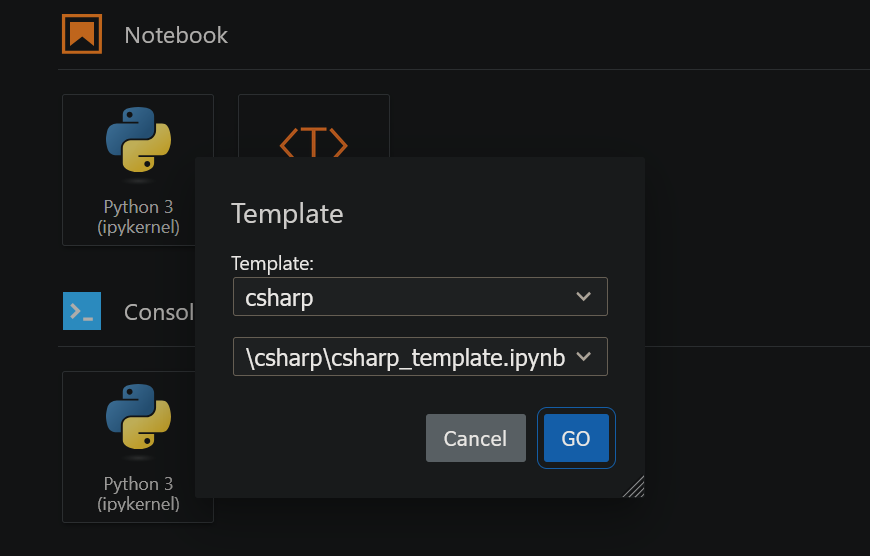
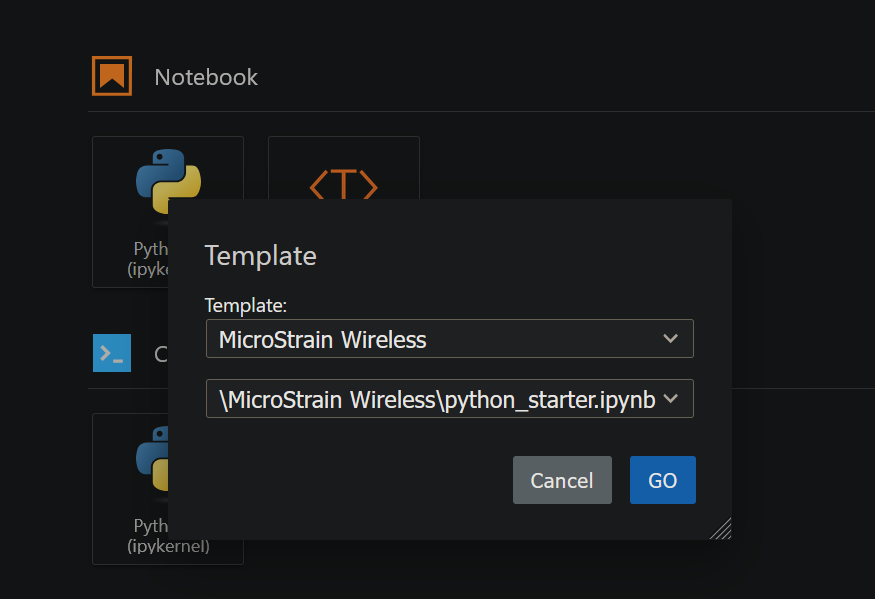
feat: Renamed starter templates to python_starter.ipynb and csharp_starter.ipynb

diff --git a/README.md b/README.md
@@ -70,9 +70,15 @@ Then, click the `Template` tile in the `Notebook` section:
 
 ![Template button in JupyterLab instance launcher](docs/images/template-tile.png)
 
-Then, select the desired language and template:
+Then, select the desired template:
 
 ![Template selector in JupyterLab instance launcher](docs/images/template-selector.png)
+
+#### Available Templates
+
+| Template | Languages  | Description |
+|----------|------------|-------------|
+| Starter  | Python, C# | Pre-configured openDAQ and library setup ready to use |
 
 ### Adding modules
 